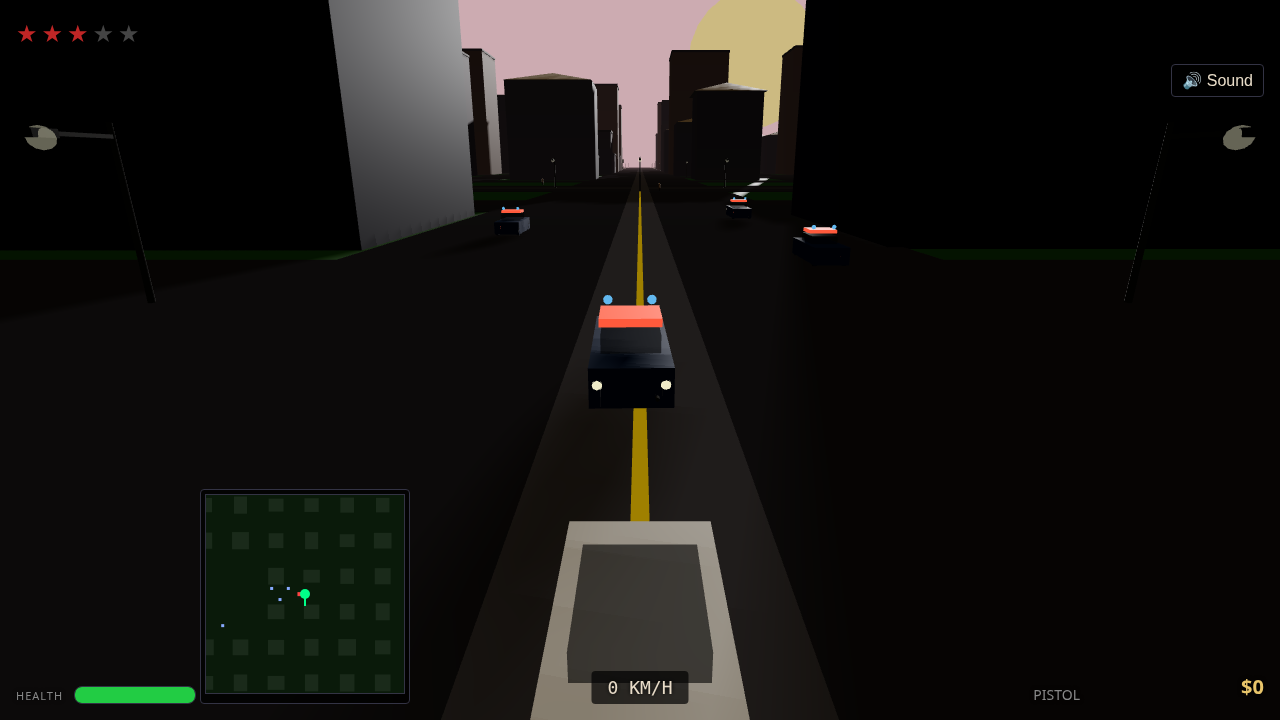
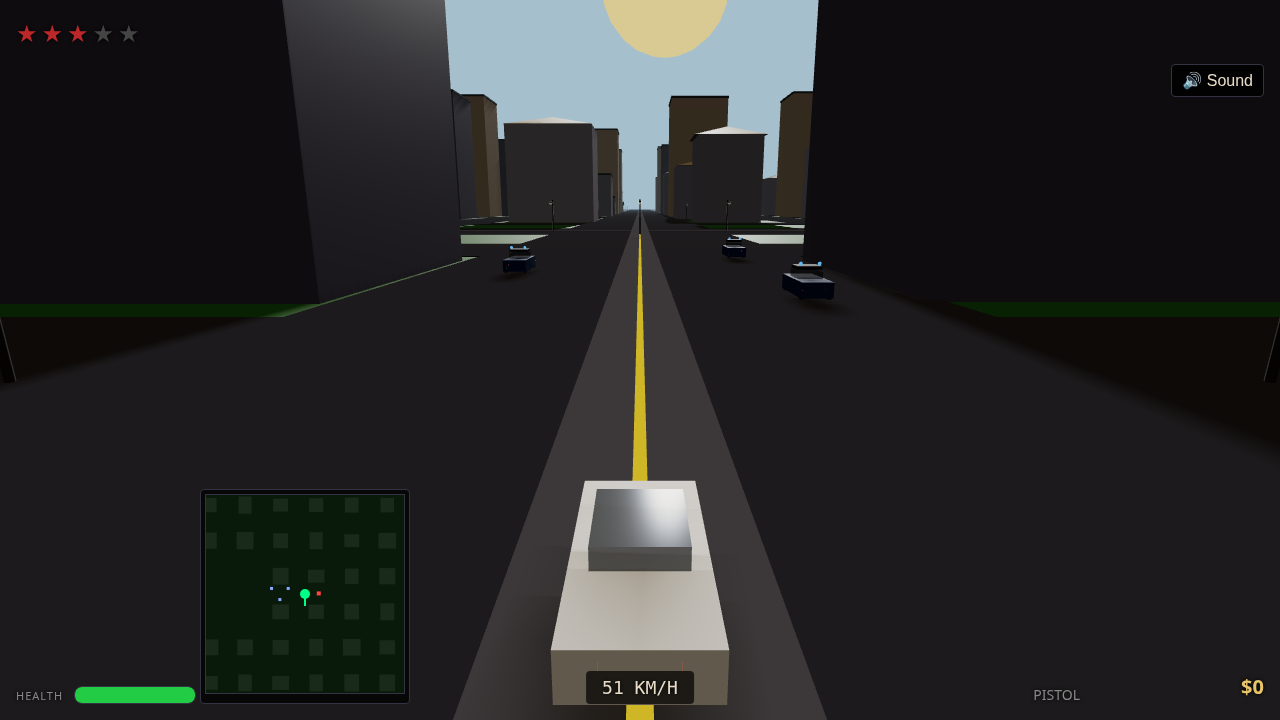
Polish pass for gta6-01 resubmission: fix NaN sea, brighten daylight, show player in on-foot shots

diff --git a/game/src/city.js b/game/src/city.js
@@ -75,8 +75,11 @@ export class City {
   }
   
   createSea() {
-    const { SIZE, SEA_LEVEL, PALETTE } = CONFIG;
-    const { WORLD } = CONFIG;
+    // SIZE and SEA_LEVEL live under CONFIG.WORLD, not CONFIG: destructuring
+    // them from CONFIG gave undefined, so PlaneGeometry(NaN, NaN) made every
+    // water vertex NaN and the sea rendered nothing (plus a NaN warning).
+    const { SIZE, SEA_LEVEL } = CONFIG.WORLD;
+    const { PALETTE } = CONFIG;
     
     const waterGeo = new THREE.PlaneGeometry(SIZE * 2, SIZE * 2, 32, 32);
     const waterMat = new THREE.MeshStandardMaterial({
@@ -92,6 +95,12 @@ export class City {
     this.water.receiveShadow = true;
     this.scene.add(this.water);
     
+    // Pre-built colors for the water tint animation: lerpColors needs
+    // THREE.Color objects, not raw hex numbers (passing numbers made the
+    // water color NaN every frame).
+    this.waterDayColor = new THREE.Color(PALETTE.WATER_DAY);
+    this.waterNightColor = new THREE.Color(PALETTE.WATER_NIGHT);
+
     // Animated water normal
     this.water.userData = { time: 0 };
   }
@@ -689,8 +698,8 @@ export class City {
       this.water.userData.time += delta;
       const t = this.water.userData.time;
       this.water.material.color.lerpColors(
-        CONFIG.PALETTE.WATER_DAY,
-        CONFIG.PALETTE.WATER_NIGHT,
+        this.waterDayColor,
+        this.waterNightColor,
         (Math.sin(t * 0.5) + 1) * 0.5 * 0.3
       );
     }
@@ -737,15 +746,18 @@ export class City {
       this.sun.material.color.lerpColors(sunNight, sunDay, dayFactor);
 
       if (this.ambientLight) {
-        this.ambientLight.intensity = 0.6 * dayFactor + 0.35;
+        this.ambientLight.intensity = 0.55 + 0.65 * dayFactor;
         this.ambientLight.color.setHSL(0.1, 0.3, 0.5 * dayFactor + 0.3);
         this.ambientLight.groundColor.setHSL(0.6, 0.2, 0.1 * dayFactor + 0.05);
       }
     }
 
-    // Update sun light position to match sun
+    // Update sun light position to match sun, and scale its intensity with
+    // the time of day (it used to be a flat 1.0, so noon looked like dusk
+    // and shaded building faces went near-black under ACES tonemapping).
     if (this.sunLight) {
       this.sunLight.position.copy(this.sun.position);
+      this.sunLight.intensity = 0.4 + 2.2 * dayFactor;
     }
 
     // Streetlight glow pulse

diff --git a/game/src/config.js b/game/src/config.js
@@ -102,7 +102,7 @@ export const CONFIG = {
   // Camera
   CAMERA: {
     FOOT_OFFSET: new THREE.Vector3(0, 1.6, 0),
-    FOOT_DISTANCE: 4.5,
+    FOOT_DISTANCE: 6.5,
     FOOT_HEIGHT: 1.8,
     VEHICLE_OFFSET: new THREE.Vector3(0, 1.2, 0),
     VEHICLE_DISTANCE: 8,
@@ -153,7 +153,10 @@ export const CONFIG = {
     // while staying darker than the grass/buildings in sun.
     ROAD: 0x3d3d44,
     SIDEWALK: 0x5c5c64,
-    BUILDING_BASE: [0x3a3a4a, 0x4a4a5a, 0x5a5a6a, 0x2a2a3a, 0x6a5a4a],
+    // Base colors were dark blue-greys (0x3a3a4a...): shaded faces rendered
+    // near-black under ACES tonemapping. Lighter warm tones keep the city
+    // readable in shadow while staying darker than sunlit faces.
+    BUILDING_BASE: [0x6a6a7e, 0x7a7a8c, 0x8a8a9c, 0x5a5a6e, 0x9a8a76],
     BUILDING_ACCENT: [0x8a7a5a, 0x7a6a5a, 0x9a8a6a, 0x6a5a4a, 0xaa9a7a],
     WINDOW_LIT: 0xffee88,
     WINDOW_DARK: 0x1a1a2a,
